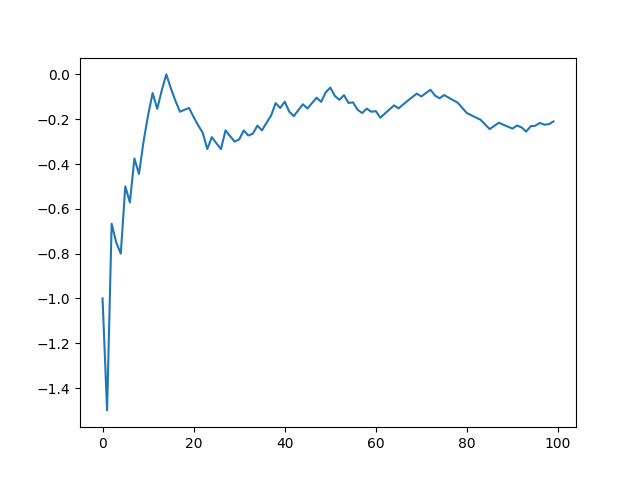
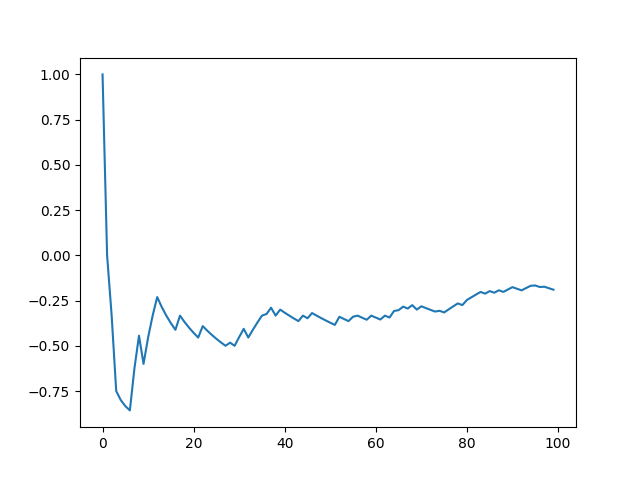
- Modified dealer and player hand evaluation - Changed stopping condition to 17 instead of 16

diff --git a/group_project/blackjack_main.py b/group_project/blackjack_main.py
@@ -17,9 +17,48 @@ def choose_action(state, Q, E):
     return np.argmax(action_values)
 
 
+def eval_hand(hand: list):
+    total_value = 0
+    num_aces = 0
+
+    for card in hand:
+        if card.value == 1:
+            num_aces += 1
+            continue
+        total_value += min(card.value, 10)
+    while num_aces > 0:
+
+        if total_value + 11 > 21:
+            total_value += 1
+        else:
+            total_value += 11
+        num_aces -= 1
+    return total_value
+
+
 def dealer_sim(hand, deck):
     total_value = hand[0].value + hand[1].value
-    while total_value < 16:
+    used_ace = False
+    if hand[0].value == 1:
+        used_ace = True
+        if total_value + 10 <= 21:
+            total_value += 10
+
+    if hand[1].value == 1 and not used_ace:
+        used_ace = True
+        if total_value + 10 <= 21:
+            total_value += 10
+
+    while total_value < 17:
+        card = deck.draw()
+
+        if not used_ace and card.value == 1:
+            used_ace = True
+            if total_value + 11 <= 21:
+                total_value += 11
+            else:
+                total_value += 1
+            continue
         total_value += deck.draw().value
 
     if total_value > 21:
@@ -33,7 +72,7 @@ def perform_action(action, state, hand, dealer_hand, deck: Deck):
     # STAY
     if action == 0:
         dealer_value = dealer_sim(dealer_hand, deck)
-        hand_value = state.hand
+        hand_value = eval_hand(hand)
 
         # Dealer busted
         if dealer_value == -1:
@@ -59,7 +98,7 @@ def perform_action(action, state, hand, dealer_hand, deck: Deck):
     # HIT
     elif action == 1:
         hand.append(deck.draw())
-        new_hand_value = sum(c.value for c in hand)
+        new_hand_value = eval_hand(hand)
         new_s = State(new_hand_value, state.dealer)
 
         # Busted
@@ -198,6 +237,6 @@ if __name__ == "__main__":
     E = 0.35
     G = 0.6
     DELTA_E = (-100 * E) / (E / (0.65 * N))
-    # run_q_learning(N, Q, 20, A, G, E, DELTA_E)
-    run_mc(N, Q, 20, A, G, E, DELTA_E)
+    run_q_learning(N, Q, 20, A, G, E, DELTA_E)
+    # run_mc(N, Q, 20, A, G, E, DELTA_E)
     test_blackjack(N, Q, 20, 0)
